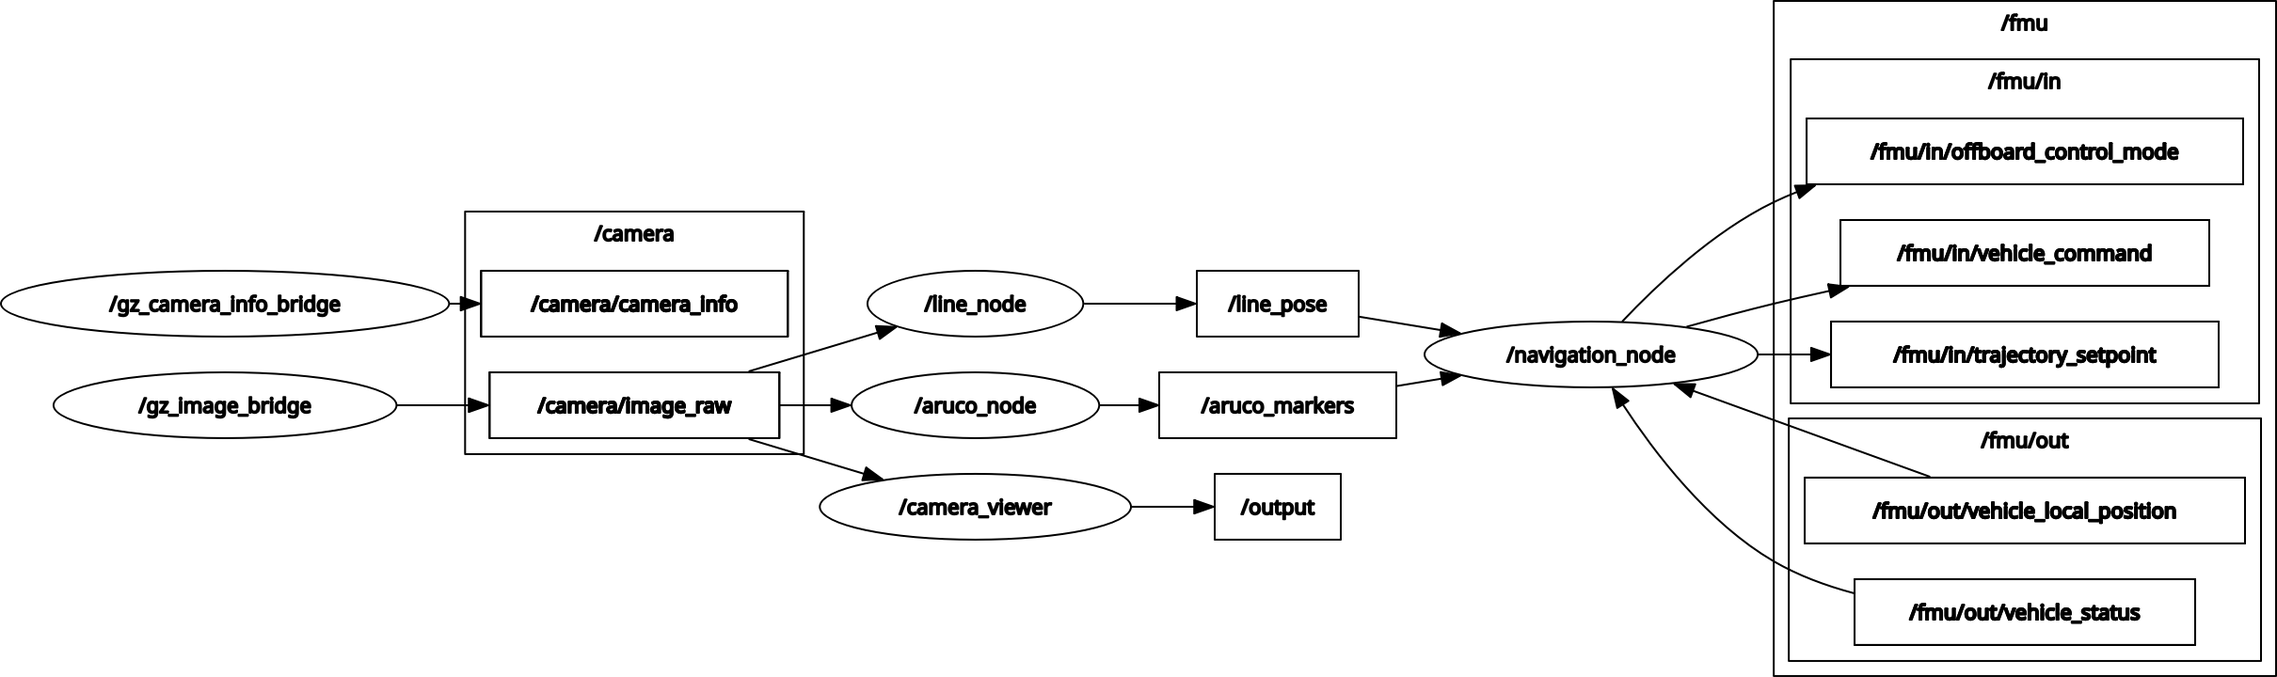
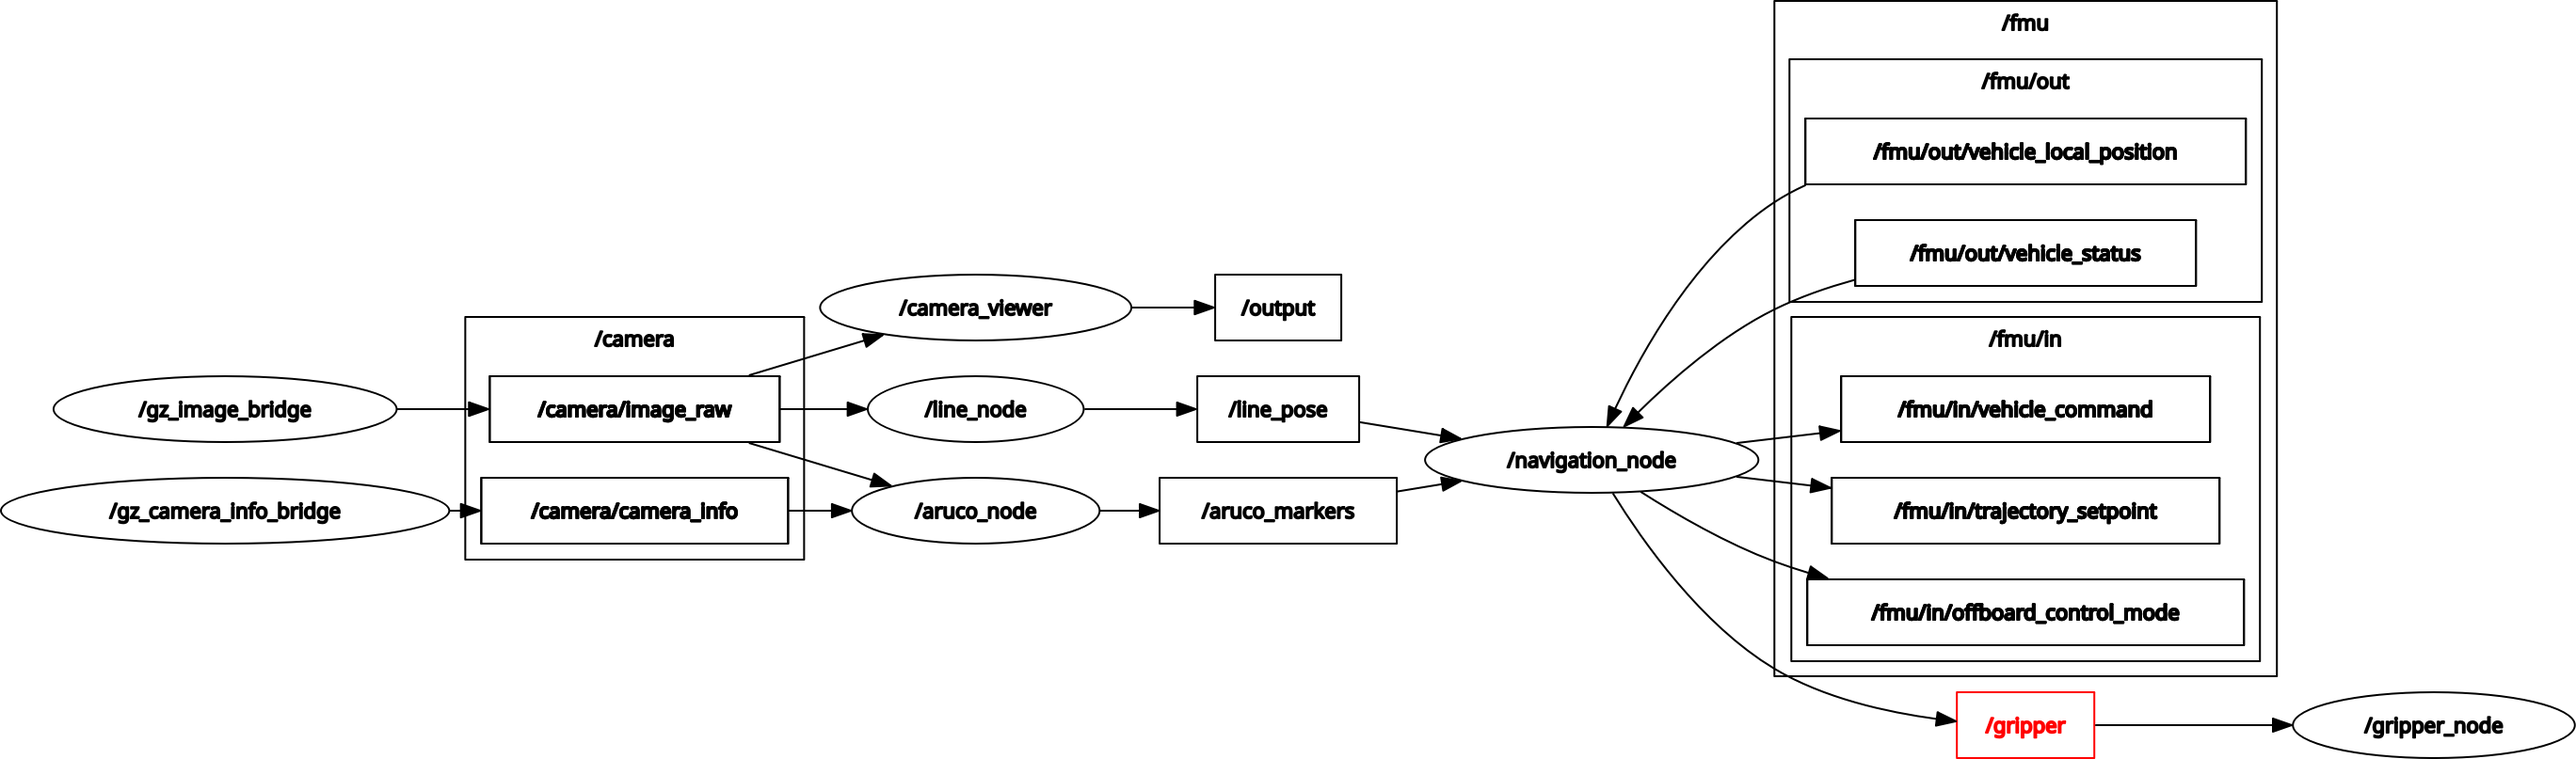
gripper_control, hover_aruco

diff --git a/ws_ros2/src/image_processing/image_processing/gripper_control.py b/ws_ros2/src/image_processing/image_processing/gripper_control.py
@@ -1,0 +1,102 @@
+"""
+This node controls a servo gripper based on received commands and supports both real hardware operation and simulation mode.
+
+Subscriptions:
+   /gripper (std_msgs.msg.String)
+       Accepts commands 'open' or 'close' to control the gripper.
+
+Parameters:
+    use_sim - Boolean flag to enable simulation mode (default: False)
+
+Hardware Control:
+    - Uses PWM on Raspberry Pi GPIO pin 18 to control a servo motor.
+    - Converts received commands into servo angles (0° for open, 90° for close).
+    - In simulation mode, only logs actions without controlling hardware.
+
+Shutdown Behavior:
+    - Cleans up GPIO resources if running on real hardware.
+
+Author: Florian Stanilewicz
+Version: 18/02/25
+"""
+
+import rclpy
+from rclpy.node import Node
+from std_msgs.msg import String
+from rclpy.qos import QoSProfile, ReliabilityPolicy, DurabilityPolicy, HistoryPolicy
+
+import time
+
+class GripperNode(Node):
+    def __init__(self):
+        super().__init__('gripper_node')
+        
+        # Declare and get parameters
+        self.declare_parameter('use_sim', True)
+        self.use_sim = self.get_parameter('use_sim').get_parameter_value().bool_value
+        
+        # GPIO setup
+        self.servo_pin = 18  # Change if needed\
+
+
+        if not self.use_sim:
+            import RPi.GPIO as GPIO
+
+            GPIO.setmode(GPIO.BCM)
+            GPIO.setup(self.servo_pin, GPIO.OUT)
+            self.pwm = GPIO.PWM(self.servo_pin, 50)  # 50Hz PWM frequency
+            self.pwm.start(0)
+        
+        qos_profile = QoSProfile(
+            reliability=ReliabilityPolicy.BEST_EFFORT,
+            durability=DurabilityPolicy.TRANSIENT_LOCAL,
+            history=HistoryPolicy.KEEP_LAST,
+            depth=1
+        )
+
+        # Subscriber for gripper commands
+        self.subscription = self.create_subscription(
+            String,
+            '/gripper',
+            self.gripper_callback,
+            qos_profile)
+        self.get_logger().info('Gripper Node Started. Waiting for commands on /gripper.')
+        
+    def gripper_callback(self, msg):
+        command = msg.data.lower()
+        if command == 'open':
+            self.set_servo_angle(0)
+            self.get_logger().info('Gripper Opened')
+        elif command == 'close':
+            self.set_servo_angle(90)
+            self.get_logger().info('Gripper close')
+        else:
+            self.get_logger().warn(f'Unknown command: {command}')
+        
+    def set_servo_angle(self, angle):
+        if self.use_sim:
+            self.get_logger().info(f'Simulation mode: Setting servo to {angle} degrees (no hardware action)')
+        else:
+            duty_cycle = (angle / 18) + 2  # Convert angle to duty cycle
+            GPIO.output(self.servo_pin, True)
+            self.pwm.ChangeDutyCycle(duty_cycle)
+            time.sleep(0.5)
+            GPIO.output(self.servo_pin, False)
+            self.pwm.ChangeDutyCycle(0)
+        
+    def destroy_node(self):
+        if not self.use_sim:
+            self.pwm.stop()
+            GPIO.cleanup()
+        super().destroy_node()
+        
+
+def main():
+    rclpy.init()
+    node = GripperNode()
+    rclpy.spin(node)
+    node.destroy_node()
+    rclpy.shutdown()
+    
+if __name__ == '__main__':
+    main()

diff --git a/ws_ros2/src/navigation_script/navigation_script/hover_aruco.py b/ws_ros2/src/navigation_script/navigation_script/hover_aruco.py
@@ -153,6 +153,19 @@ class NavigationNode(Node):
         msg.timestamp = int(self.get_clock().now().nanoseconds / 1000)
         self.vehicle_command_publisher.publish(msg)
     
+    def reset_home(self):
+        """Reset the home location of the vehicle."""
+        command = 179  # MAV_CMD_NAV_SET_HOME command ID
+        params = {
+            "param1": 1.0,  # Set home to current location (1 = current location, 0 = GPS location)
+            "param2": 0.0,  # Latitude (not needed when param1 is set to 1)
+            "param3": 0.0,  # Longitude (not needed when param1 is set to 1)
+            "param4": 0.0,  # Altitude (not needed when param1 is set to 1)
+            "param5": 0.0,  # Desired home altitude
+            "param6": 0.0,  # Optional parameter, leave as 0
+            "param7": 0.0   # Optional parameter, leave as 0
+        }
+        self.publish_vehicle_command(command, **params)
 
     def move_drone_line(self, offset_x, offset_y, line_heading, speed=0.001):
         """Generate a movement command based on offsets and line heading."""
@@ -179,22 +192,31 @@ class NavigationNode(Node):
             if self.command_delay_counter == 10:
                 self.engage_offboard_mode()
                 self.arm()
+                self.reset_home()
 
             if self.vehicle_local_position.z > self.takeoff_height \
                 and self.vehicle_status.nav_state == VehicleStatus.NAVIGATION_STATE_OFFBOARD:
                 self.nav_state = "TAKEOFF"
 
         elif self.nav_state == "TAKEOFF":
-            self.publish_position_setpoint(0.0, 0.0, self.takeoff_height * 3) # times 3 to T/O faster
+            self.publish_position_setpoint(0.0, 0.0, self.takeoff_height, 0.0, 0.0, -3.0) 
 
             if self.vehicle_local_position.z <= self.takeoff_height:
-                self.nav_state = "task1"
+                self.nav_state = "HOVER_ARUCO"
 
-        if self.nav_state == "task1":
-            self.open_gripper(True)
-            self.open_gripper(False)
-            self.open_gripper(True)
-            self.nav_state = "LAND"
+        if self.nav_state == "HOVER_ARUCO":
+
+            
+            if 0 in self.aruco_markers.marker_ids:
+                aruco_i = self.aruco_markers.marker_ids.index(0)
+                pose = self.aruco_markers.poses[aruco_i]
+                self.publish_position_setpoint(-pose.position.x,\
+                 -pose.position.y, -pose.position.z - 0.5, 1.0, 1.0, 0.01)
+                
+                self.get_logger().info(f"COMMAND [{-pose.position.x:.2f}, {-pose.position.y:.2f}, {(-pose.position.z-0.5):.2f}]")
+
+
+            #self.nav_state = "LAND"
 
         if self.nav_state == "LAND":
             if self.command_delay_counter == 10:

diff --git a/ws_ros2/src/image_processing/launch/image_processing.launch.py b/ws_ros2/src/image_processing/launch/image_processing.launch.py
@@ -35,6 +35,12 @@ def generate_launch_description():
         condition=IfCondition(PythonExpression(["'", LaunchConfiguration("use_sim"), "' == 'false'"])),
     )
 
+    gripper_control = Node(
+        package="image_processing",
+        executable="gripper_control",
+        parameters=[{"use_sim": use_sim}],
+        )
+
     gazebo_to_ros_bridge = Node(
         package="ros_gz_bridge",
         executable="parameter_bridge",
@@ -62,5 +68,6 @@ def generate_launch_description():
         gazebo_to_ros_bridge,
         gazebo_camera_info_bridge,
         aruco,
-        line
+        line,
+        gripper_control
     ])

diff --git a/ws_ros2/src/image_processing/image_processing/aruco_node.py b/ws_ros2/src/image_processing/image_processing/aruco_node.py
@@ -187,8 +187,8 @@ class ArucoNode(rclpy.node.Node):
                 print(f"Marker ID: {marker_ids[i]} | tvec: {tvec[:,0]} | rvec: {rvec[:,0]}")
 
                 pose = Pose()
-                pose.position.x = tvec[:,0][0]
-                pose.position.y = tvec[:,0][1]
+                pose.position.x = tvec[:,0][0] + self.marker_size / 2.0
+                pose.position.y = tvec[:,0][1] + self.marker_size / 2.0
                 pose.position.z = tvec[:,0][2]
 
                 rot_matrix, _ = cv2.Rodrigues(rvec)

diff --git a/ws_ros2/src/image_processing/setup.py b/ws_ros2/src/image_processing/setup.py
@@ -27,6 +27,7 @@ setup(
             'pub_cam = image_processing.pub_cam:main',
             'aruco_node = image_processing.aruco_node:main',
             'line_node = image_processing.line_recognition:main',
+            'gripper_control = image_processing.gripper_control:main',
         ],
     },
 )

diff --git a/ws_ros2/src/navigation_script/setup.py b/ws_ros2/src/navigation_script/setup.py
@@ -24,6 +24,7 @@ setup(
     entry_points={
         'console_scripts': [
             'navigation_node = navigation_script.navigation_node:main',
+            'hover_aruco = navigation_script.hover_aruco:main',
         ],
     },
 )

diff --git a/ws_ros2/src/navigation_script/launch/navigation_script.launch.py b/ws_ros2/src/navigation_script/launch/navigation_script.launch.py
@@ -12,7 +12,7 @@ def generate_launch_description():
     
     main_script = Node(
         package='navigation_script',
-        executable='navigation_node',
+        executable='hover_aruco',
     )
 
     camera_node = Node(

diff --git a/README.md b/README.md
@@ -85,6 +85,7 @@ The `image_processing` package runs :
 - `gz_image_bridge`, `gz_camera_info_bridge` : those nodes pass the camera topics from Gazebo to ROS2, OR RPI3 camera topics to ROS2 when the parameter `use_sim` is set to true ( `use_sim:=false` )
 - `aruco_node`, `line_node` : those nodes process the camera image from `camera/image_raw`, and publish their output into `aruco_markers` and `line_pos` respectively. 
 `aruco_markers` contains the markers IDs, and the 3D poses of the arucos ; `line_node` contains the 2D pose of the yellow-green line ( it returns NaN if nothing is detected ).
+- `gripper_node` : this node moves the gripper servomotor on the RPI by controlling the PWM signal on pin 18, it uses the string topic `/gripper` with the valid commands open and close.
 
 The `navigation_script` package runs : 
 - `navigation_node` : this node receives information from all the processing nodes, excecute the navigation startegy ( arm, takeoff, follow the line, ...) and communicates with the PX4 via the `/fmu/in` and `/fmu/out` topics (created with the MicroXRCE Agent) to send position and velocity commands. 
